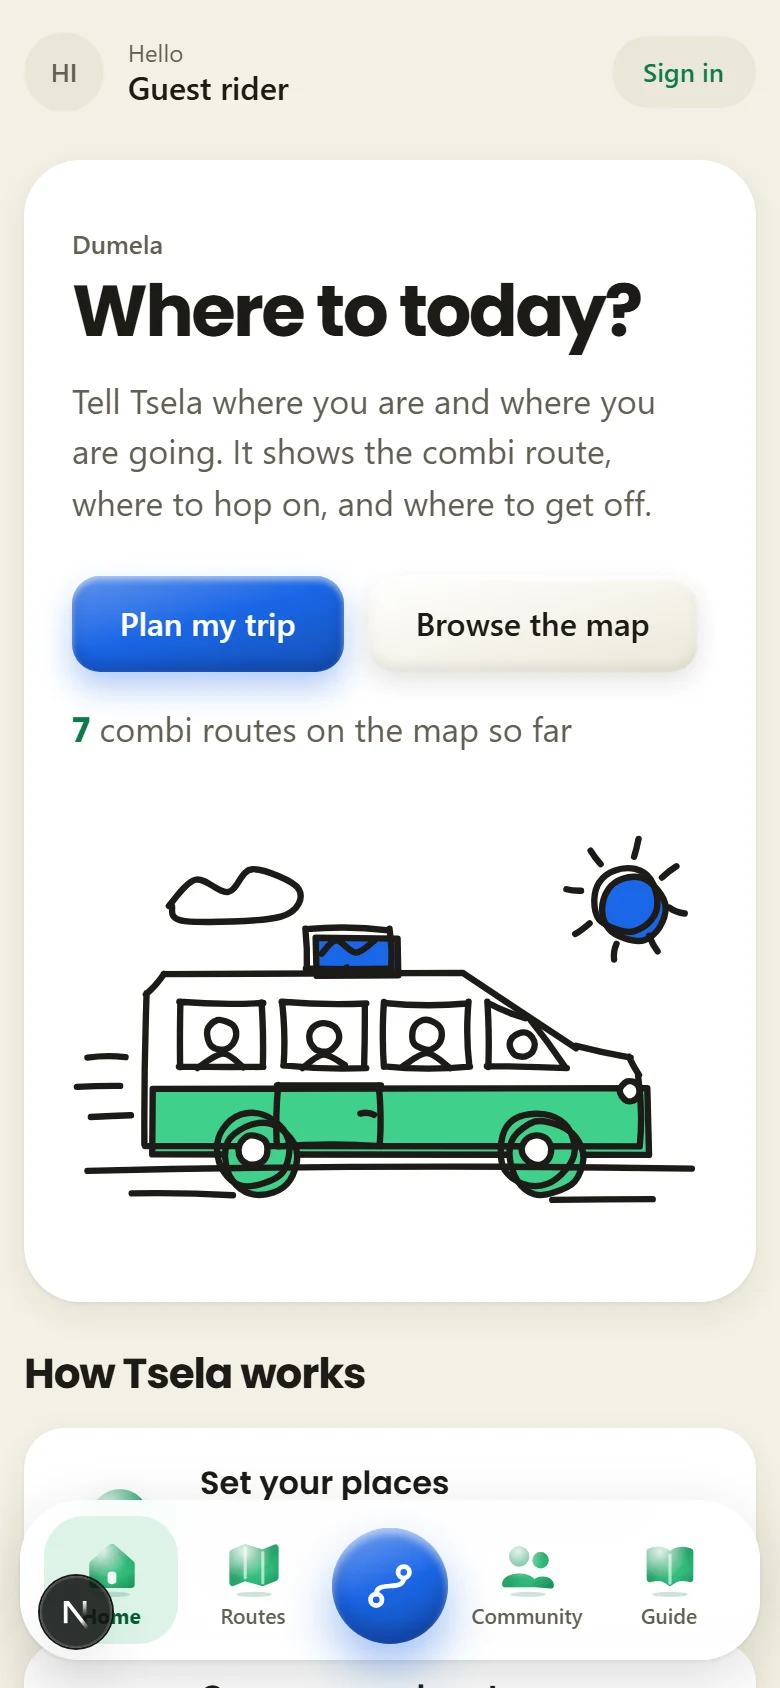
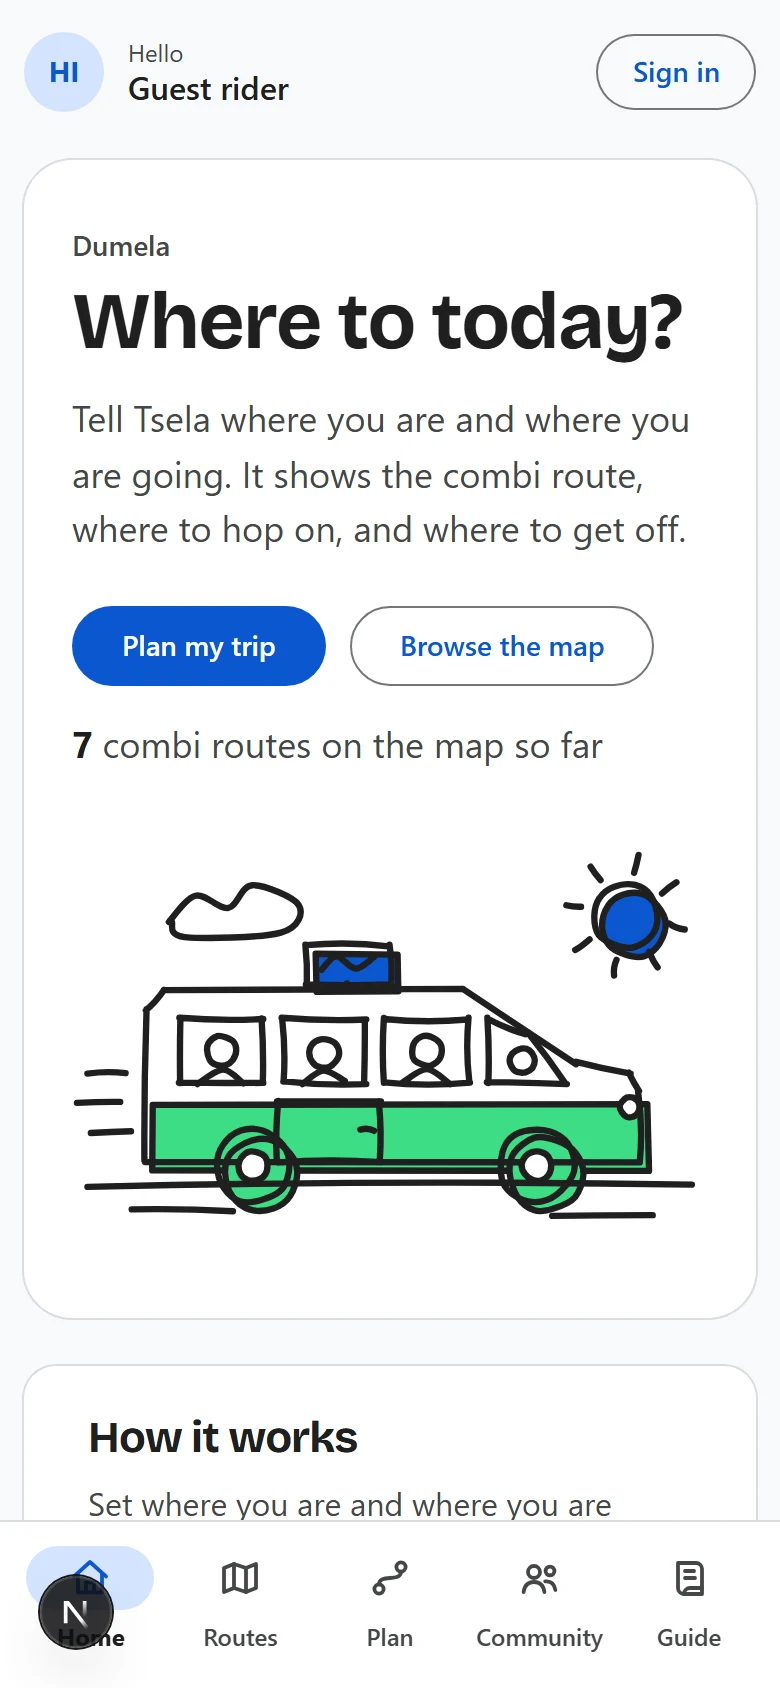
fix(marketing): give the hero more room above the screenshot, recapture rider shots
The embedded rider screenshots still showed the app before its Material
rewrite. Recaptured both against the current build. Also widens the gap
between the hero copy and the screenshot it bleeds into, and flattens the
open-graph card off the old cream-and-lime palette onto the current brand.

diff --git a/marketing/app/opengraph-image.tsx b/marketing/app/opengraph-image.tsx
@@ -7,5 +7,5 @@ export const size = { width: 1200, height: 630 };
 export const contentType = "image/png";
 
 export default function OpenGraphImage() {
-  return new ImageResponse(<div style={{ width: "100%", height: "100%", padding: 70, display: "flex", flexDirection: "column", justifyContent: "space-between", background: "#fffaf0", color: "#11120f" }}><div style={{ display: "flex", alignItems: "center", gap: 22 }}><div style={{ width: 76, height: 76, display: "flex", alignItems: "center", justifyContent: "center", border: "5px solid #11120f", borderRadius: 24, background: "#11120f", color: "#fff", fontSize: 36, fontWeight: 800 }}>↝</div><span style={{ fontSize: 42, fontWeight: 800 }}>Tsela</span></div><div style={{ display: "flex", flexDirection: "column" }}><span style={{ color: "#3157ff", fontSize: 22, fontWeight: 700, letterSpacing: 2 }}>GABORONE COMBI ROUTES</span><strong style={{ width: 950, marginTop: 18, fontSize: 92, lineHeight: .92, letterSpacing: -5 }}>Know which combi gets you there.</strong></div><div style={{ width: "100%", height: 18, display: "flex", border: "4px solid #11120f", borderRadius: 20, background: "#c8ff3d" }} /></div>, size);
+  return new ImageResponse(<div style={{ width: "100%", height: "100%", padding: 70, display: "flex", flexDirection: "column", justifyContent: "space-between", background: "#ffffff", color: "#1f1f1f" }}><div style={{ display: "flex", alignItems: "center", gap: 22 }}><div style={{ width: 76, height: 76, display: "flex", alignItems: "center", justifyContent: "center", border: "5px solid #146c2e", borderRadius: 24, background: "#146c2e", color: "#fff", fontSize: 36, fontWeight: 800 }}>↝</div><span style={{ fontSize: 42, fontWeight: 800 }}>Tsela</span></div><div style={{ display: "flex", flexDirection: "column" }}><span style={{ color: "#0b57d0", fontSize: 24, fontWeight: 700 }}>Gaborone combi routes</span><strong style={{ width: 950, marginTop: 18, fontSize: 92, lineHeight: .92, letterSpacing: -5 }}>Know which combi gets you there.</strong></div><div style={{ width: "100%", height: 10, display: "flex", borderRadius: 20, background: "#146c2e" }} /></div>, size);
 }

diff --git a/marketing/app/globals.css b/marketing/app/globals.css
@@ -75,7 +75,7 @@ p { color: var(--c-ink-2); }
 .mobile-nav a:hover, .mobile-nav a[aria-current="page"] { background: var(--c-accent-soft); color: var(--c-accent-text); }
 
 /* Hero: a dark band, left-aligned, that the real product screenshot bleeds into from below */
-.hero { padding: var(--s-8) 0 var(--s-7); background: var(--c-ink); color: #fff; }
+.hero { padding: var(--s-8) 0 var(--s-8); background: var(--c-ink); color: #fff; }
 .hero-inner { display: grid; gap: var(--s-4); max-width: 640px; }
 .hero-inner h1 { color: #fff; margin: 0; }
 .hero-inner .lede { color: rgba(255, 255, 255, 0.72); }
@@ -84,7 +84,7 @@ p { color: var(--c-ink-2); }
 
 /* Product showcase: a real screenshot, framed, straddling the dark hero and the white page below */
 .showcase { padding-top: 0; padding-bottom: var(--s-7); }
-.showcase-stage { margin-top: calc(-1 * var(--s-7)); }
+.showcase-stage { margin-top: calc(-1 * var(--s-6)); }
 .window { overflow: hidden; border: 1px solid var(--c-line); border-radius: var(--r-lg); background: var(--c-surface); box-shadow: var(--sh-2); }
 .window img { display: block; width: 100%; height: auto; }
 .showcase figcaption { margin-top: var(--s-4); color: var(--c-ink-2); font-size: var(--fs-sm); }
